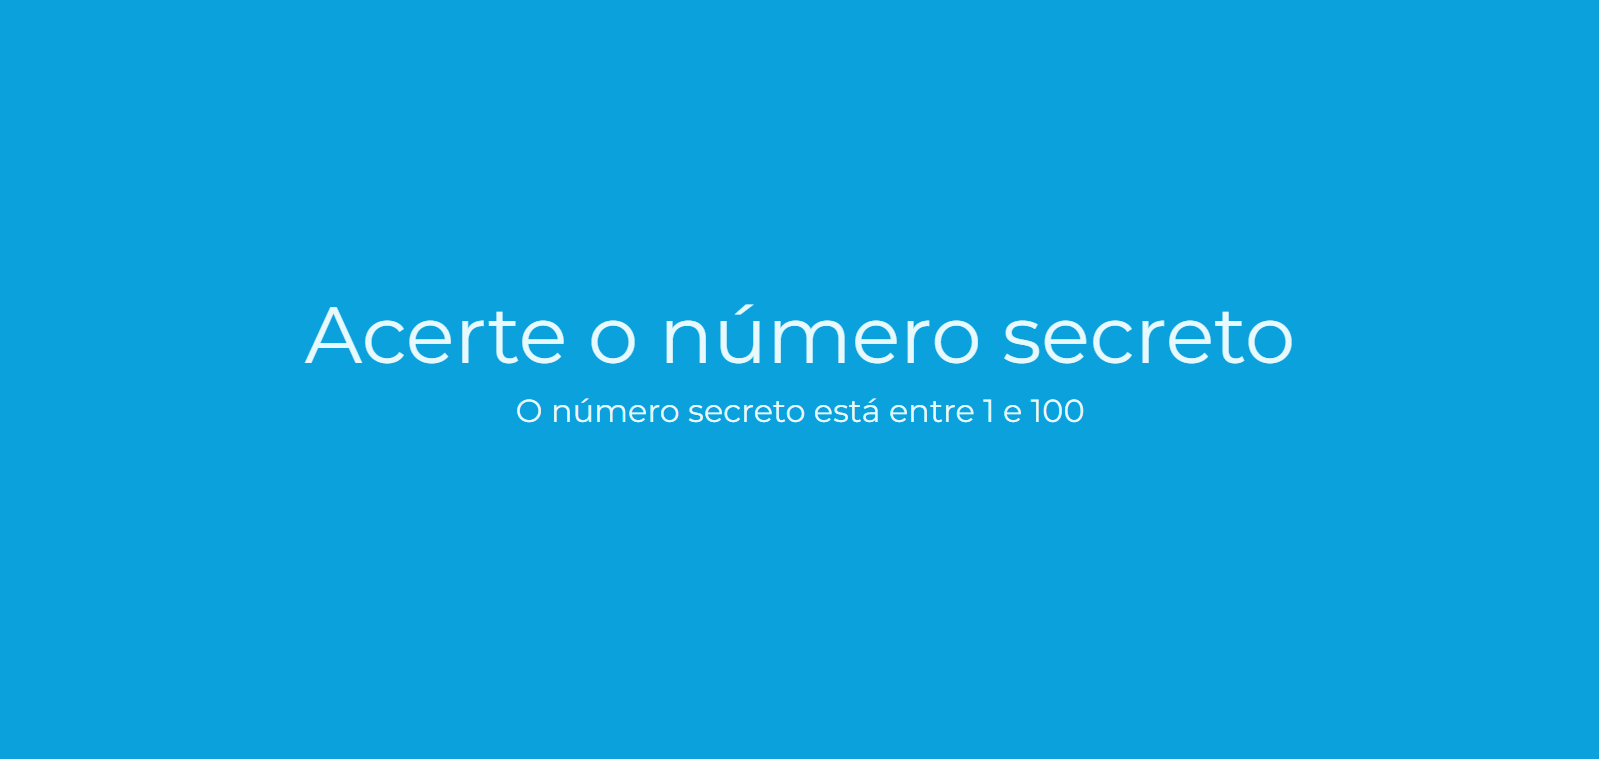
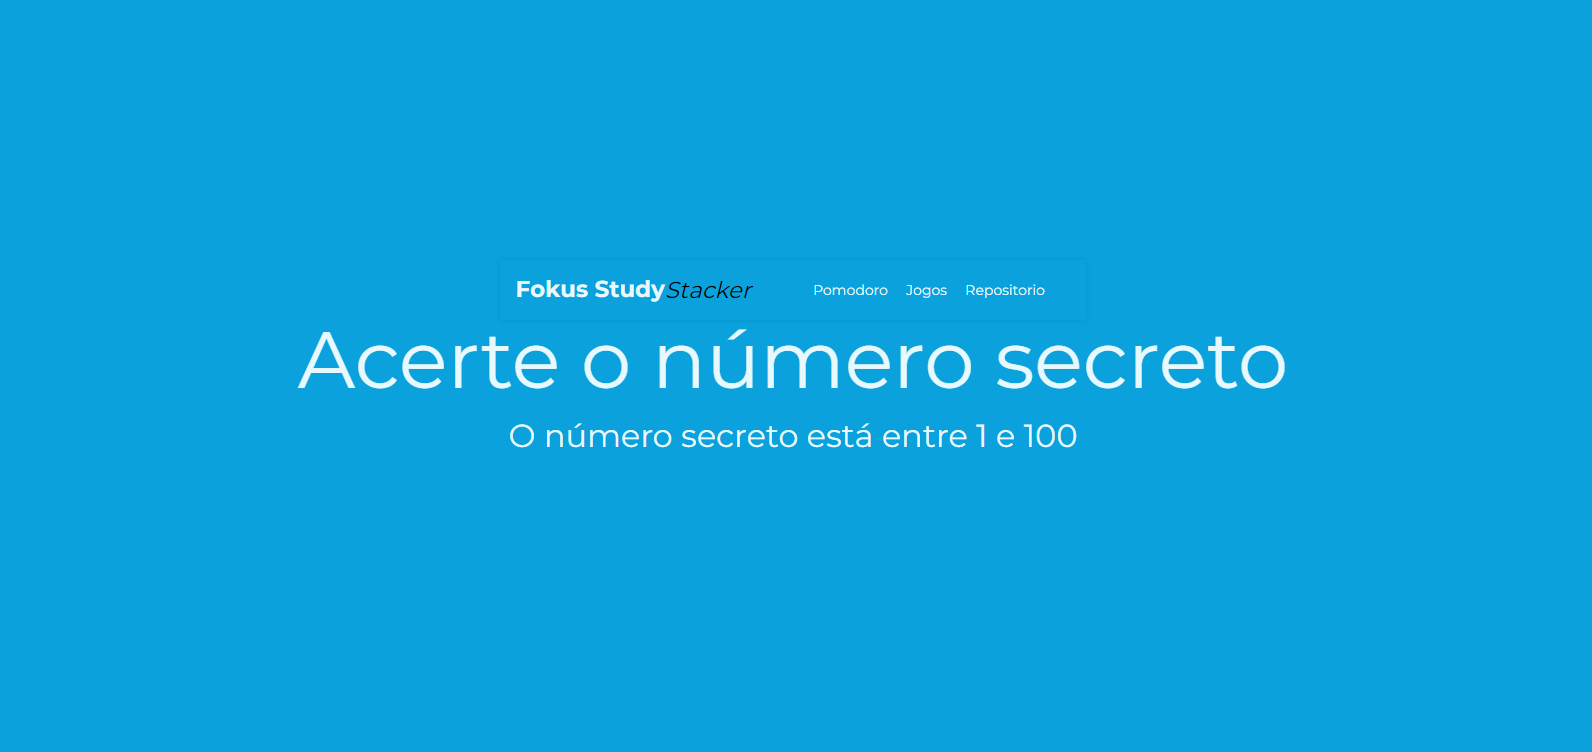
Imagens do carrossel do Swiper alteradas

Changed region(s): [[0.1847, 0.367, 0.831, 0.6117], [0.5232, 0.367, 0.6464, 0.3976]]

diff --git a/jogos/numeroSecreto.css b/jogos/numeroSecreto.css
@@ -28,6 +28,63 @@ h3 {
     font-size: 2em;
 }
 
+.cabecalho {
+    display: flex;
+    align-items: center;
+    box-shadow: 0px 0px 5px rgba(0, 0, 0, 0.1);
+}
+
+.cabecalho__container-nav {
+    display: flex;
+    justify-content: space-between;
+    align-items: center;
+    width: 100%;
+    padding: 1em;
+}
+
+.cabecalho__container-logo {
+    display: flex;
+    align-items: center;
+    justify-content: center;
+    margin-right: 3em;
+} 
+
+.cabecalho__logo {
+    text-decoration: none;
+    color: var(--preto);
+    font-size: 23px;
+    font-weight: 700;
+    display: flex;
+    align-items: center;
+}
+
+.cabecalho__logo-final {
+    border: none;
+    background: transparent;
+    font-family: var(--fonte-principal);
+    font-weight: 300;
+    font-style: italic;
+    font-size: 23px;
+    padding: 0;
+    cursor: pointer;
+}
+
+.cabecalho__container-opcoes {
+    margin-right: 1.6em;
+}
+
+.cabecalho_opcoes-link {
+    text-decoration: none;
+    color: var(--preto);
+    font-size: 14px;
+    font-weight: 300;
+    margin-left: 1em;
+}
+
+.cabecalho_opcoes-link:hover, .cabecalho__logo-final:hover{
+    color: var(--branco);
+}
+
 .mensagem {
     font-size: 1.5em;
     margin-top: 40px;

diff --git a/jogos/numeroSecreto.html b/jogos/numeroSecreto.html
@@ -12,6 +12,21 @@
     <title>Número Secreto</title>
 </head>
 <body>
+    <header class="cabecalho">
+        <nav class="cabecalho__container-nav">
+            
+            <div class="cabecalho__container-logo">
+                <a href="../index.html" class="cabecalho__logo">Fokus Study</a><button class="cabecalho__logo-final">Stacker</button>
+            </div>
+
+            <div class="cabecalho__container-opcoes">
+                <a href="../pomodoro/pomodoro.html" class="cabecalho_opcoes-link active-nav">Pomodoro</a>
+                <a href="../jogos/numeroSecreto.html" class="cabecalho_opcoes-link">Jogos</a>
+                <a href="https://github.com/Ki3lMigu3l" class="cabecalho_opcoes-link">Repositorio</a>       
+            </div>
+        </nav>
+    </header>
+
     <h1>Acerte o número secreto</h1>
 
     <h3>O número secreto está entre <span id="menor-valor">0</span> e <span id="maior-valor">100</span></h3>
